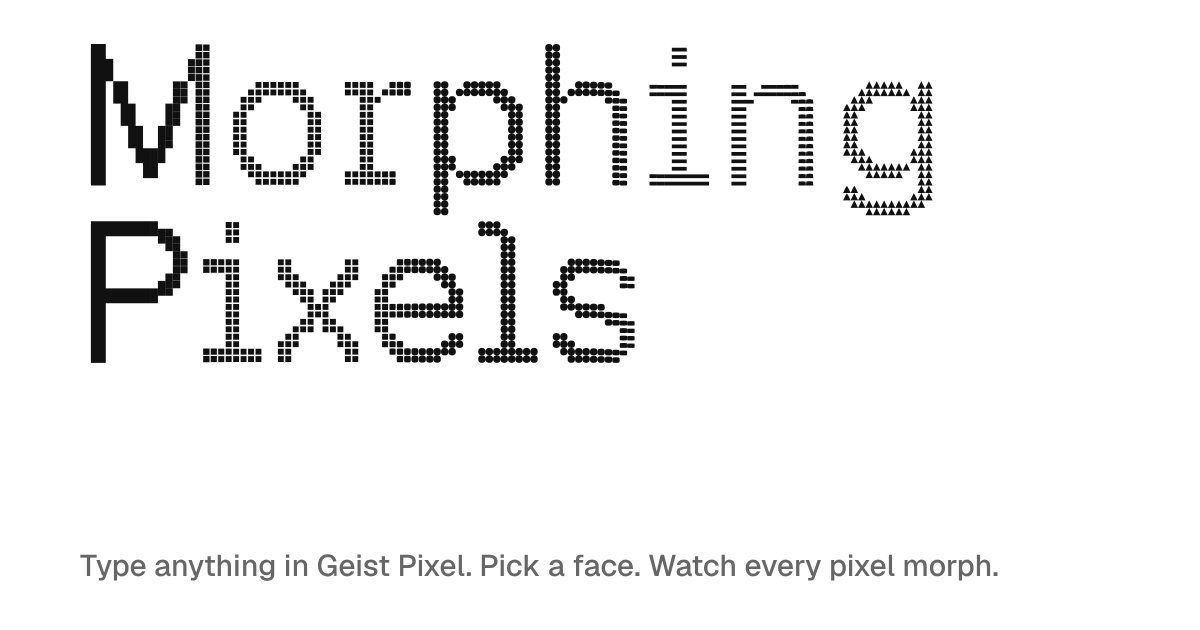
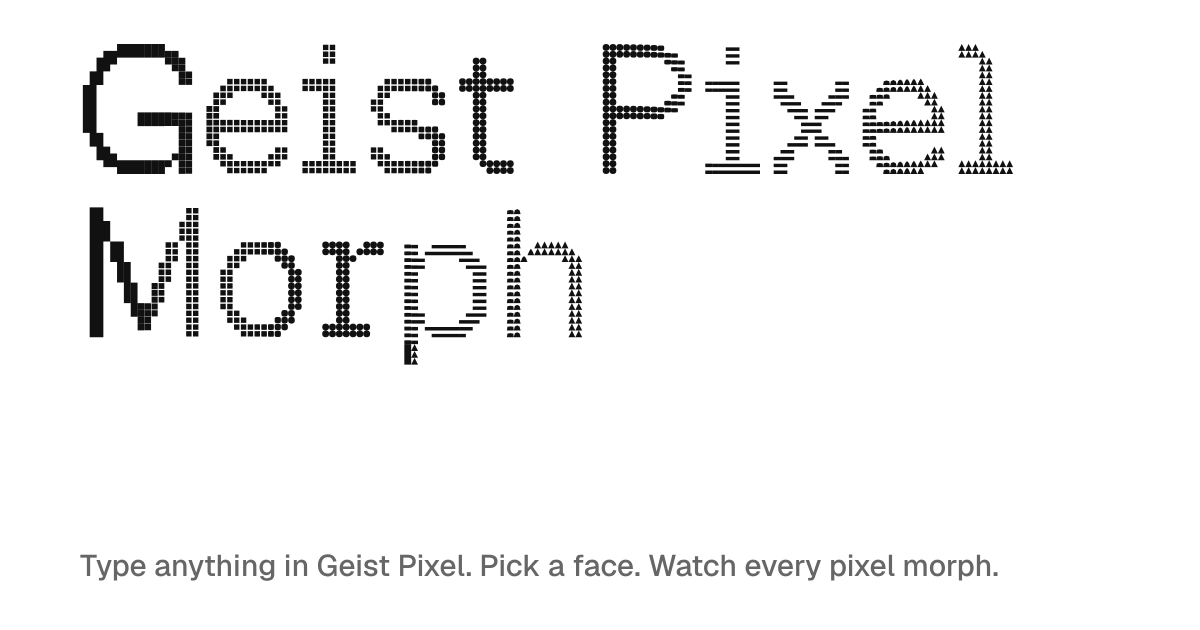
Rename the site to Geist Pixel Morph
The name says what it is: Geist Pixel, morphing. The page title, the
link preview tags and image, the README and the package all carry it;
the component keeps its PixelMorph name.

Claude-Session: https://claude.ai/code/session_012YUiGBASQ3XFqbQF6AJtMG

Changed region(s): [[0.0617, 0.0603, 0.8633, 0.3619], [0.0617, 0.3317, 0.555, 0.6032], [0.2467, 0.0603, 0.2775, 0.0905]]

diff --git a/index.html b/index.html
@@ -5,18 +5,18 @@
     <link rel="icon" type="image/svg+xml" href="/favicon.svg" />
     <meta name="description" content="Type anything in Geist Pixel and watch every pixel morph between Square, Grid, Circle, Line and Triangle." />
     <meta name="viewport" content="width=device-width, initial-scale=1.0" />
-    <title>Morphing Pixels</title>
+    <title>Geist Pixel Morph</title>
     <meta name="theme-color" content="#ffffff" />
     <meta property="og:type" content="website" />
     <meta property="og:url" content="https://geist-pixel-animation.vercel.app/" />
-    <meta property="og:title" content="Morphing Pixels" />
+    <meta property="og:title" content="Geist Pixel Morph" />
     <meta property="og:description" content="Type anything in Geist Pixel and watch every pixel morph between Square, Grid, Circle, Line and Triangle." />
     <meta property="og:image" content="https://geist-pixel-animation.vercel.app/og.png" />
     <meta property="og:image:width" content="1200" />
     <meta property="og:image:height" content="630" />
-    <meta property="og:image:alt" content="The words Morphing Pixels in Geist Pixel, their pixels turning from squares to dots, bars and triangles from left to right." />
+    <meta property="og:image:alt" content="The words Geist Pixel Morph, their pixels turning from squares to dots, bars and triangles from left to right." />
     <meta name="twitter:card" content="summary_large_image" />
-    <meta name="twitter:title" content="Morphing Pixels" />
+    <meta name="twitter:title" content="Geist Pixel Morph" />
     <meta name="twitter:description" content="Type anything in Geist Pixel and watch every pixel morph between Square, Grid, Circle, Line and Triangle." />
     <meta name="twitter:image" content="https://geist-pixel-animation.vercel.app/og.png" />
     <link rel="preconnect" href="https://fonts.googleapis.com" />

diff --git a/README.md b/README.md
@@ -1,4 +1,4 @@
-# Morphing Pixels
+# Geist Pixel Morph
 
 Type anything in Geist Pixel, then switch faces and watch every pixel morph
 into the new one: solid Square letters break down into Circle dots, dots
